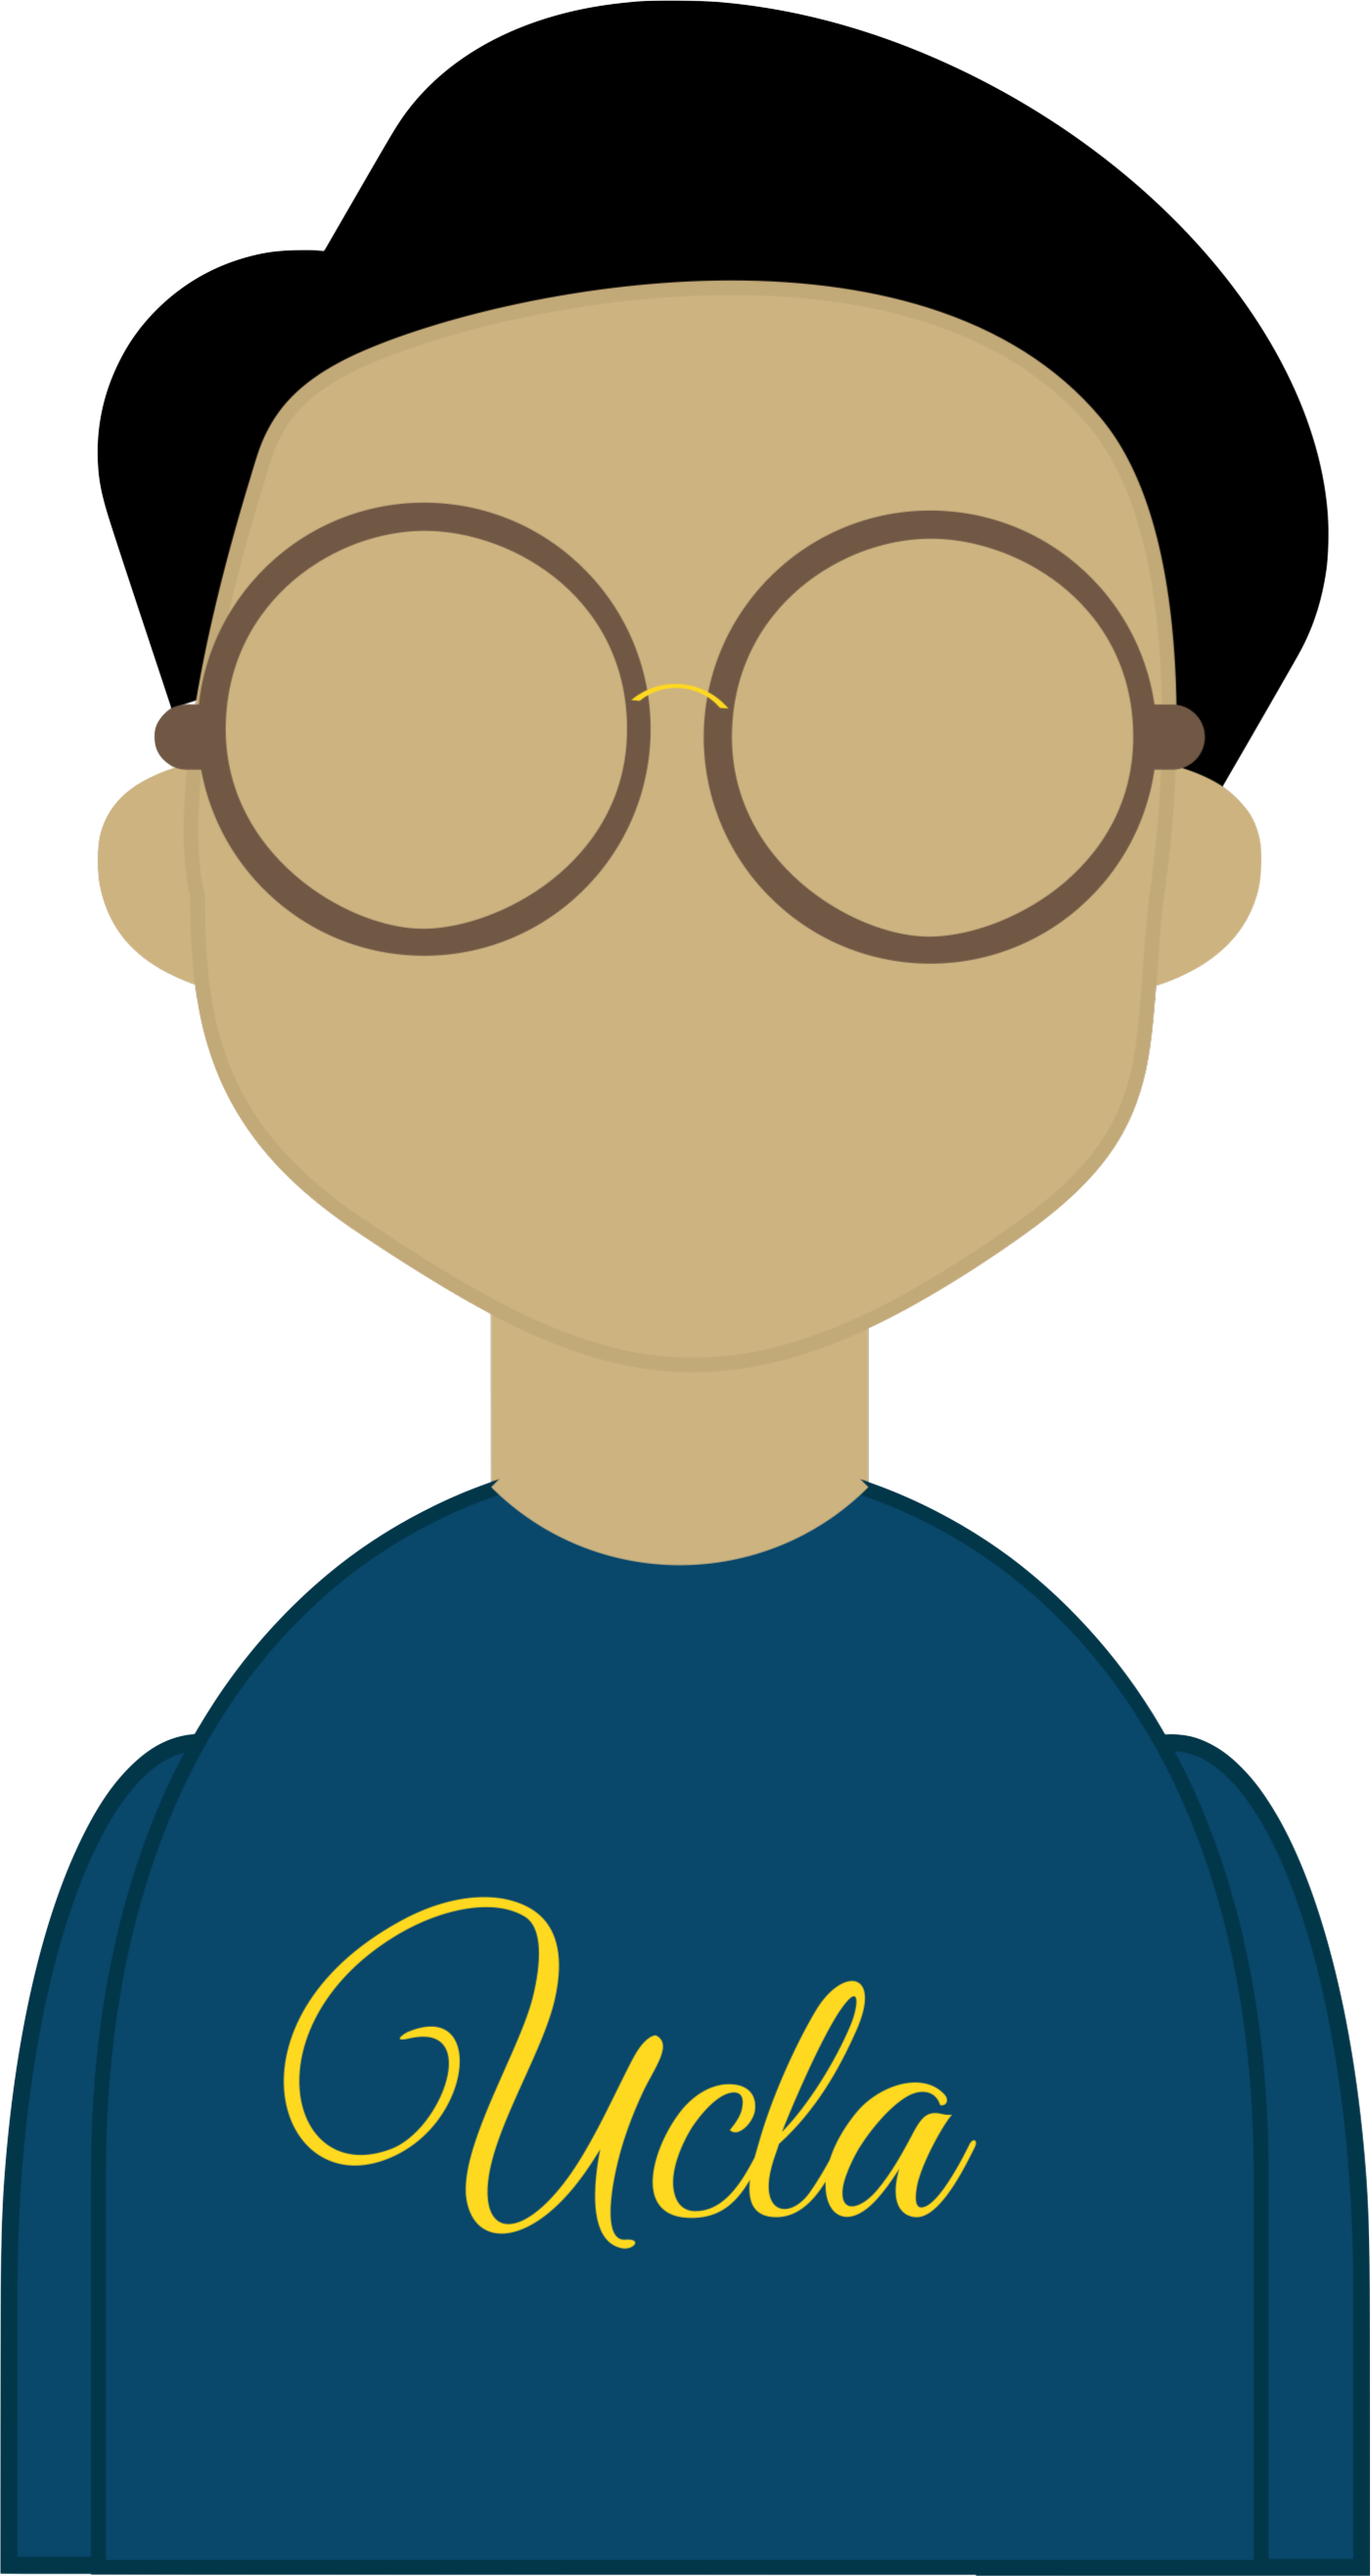
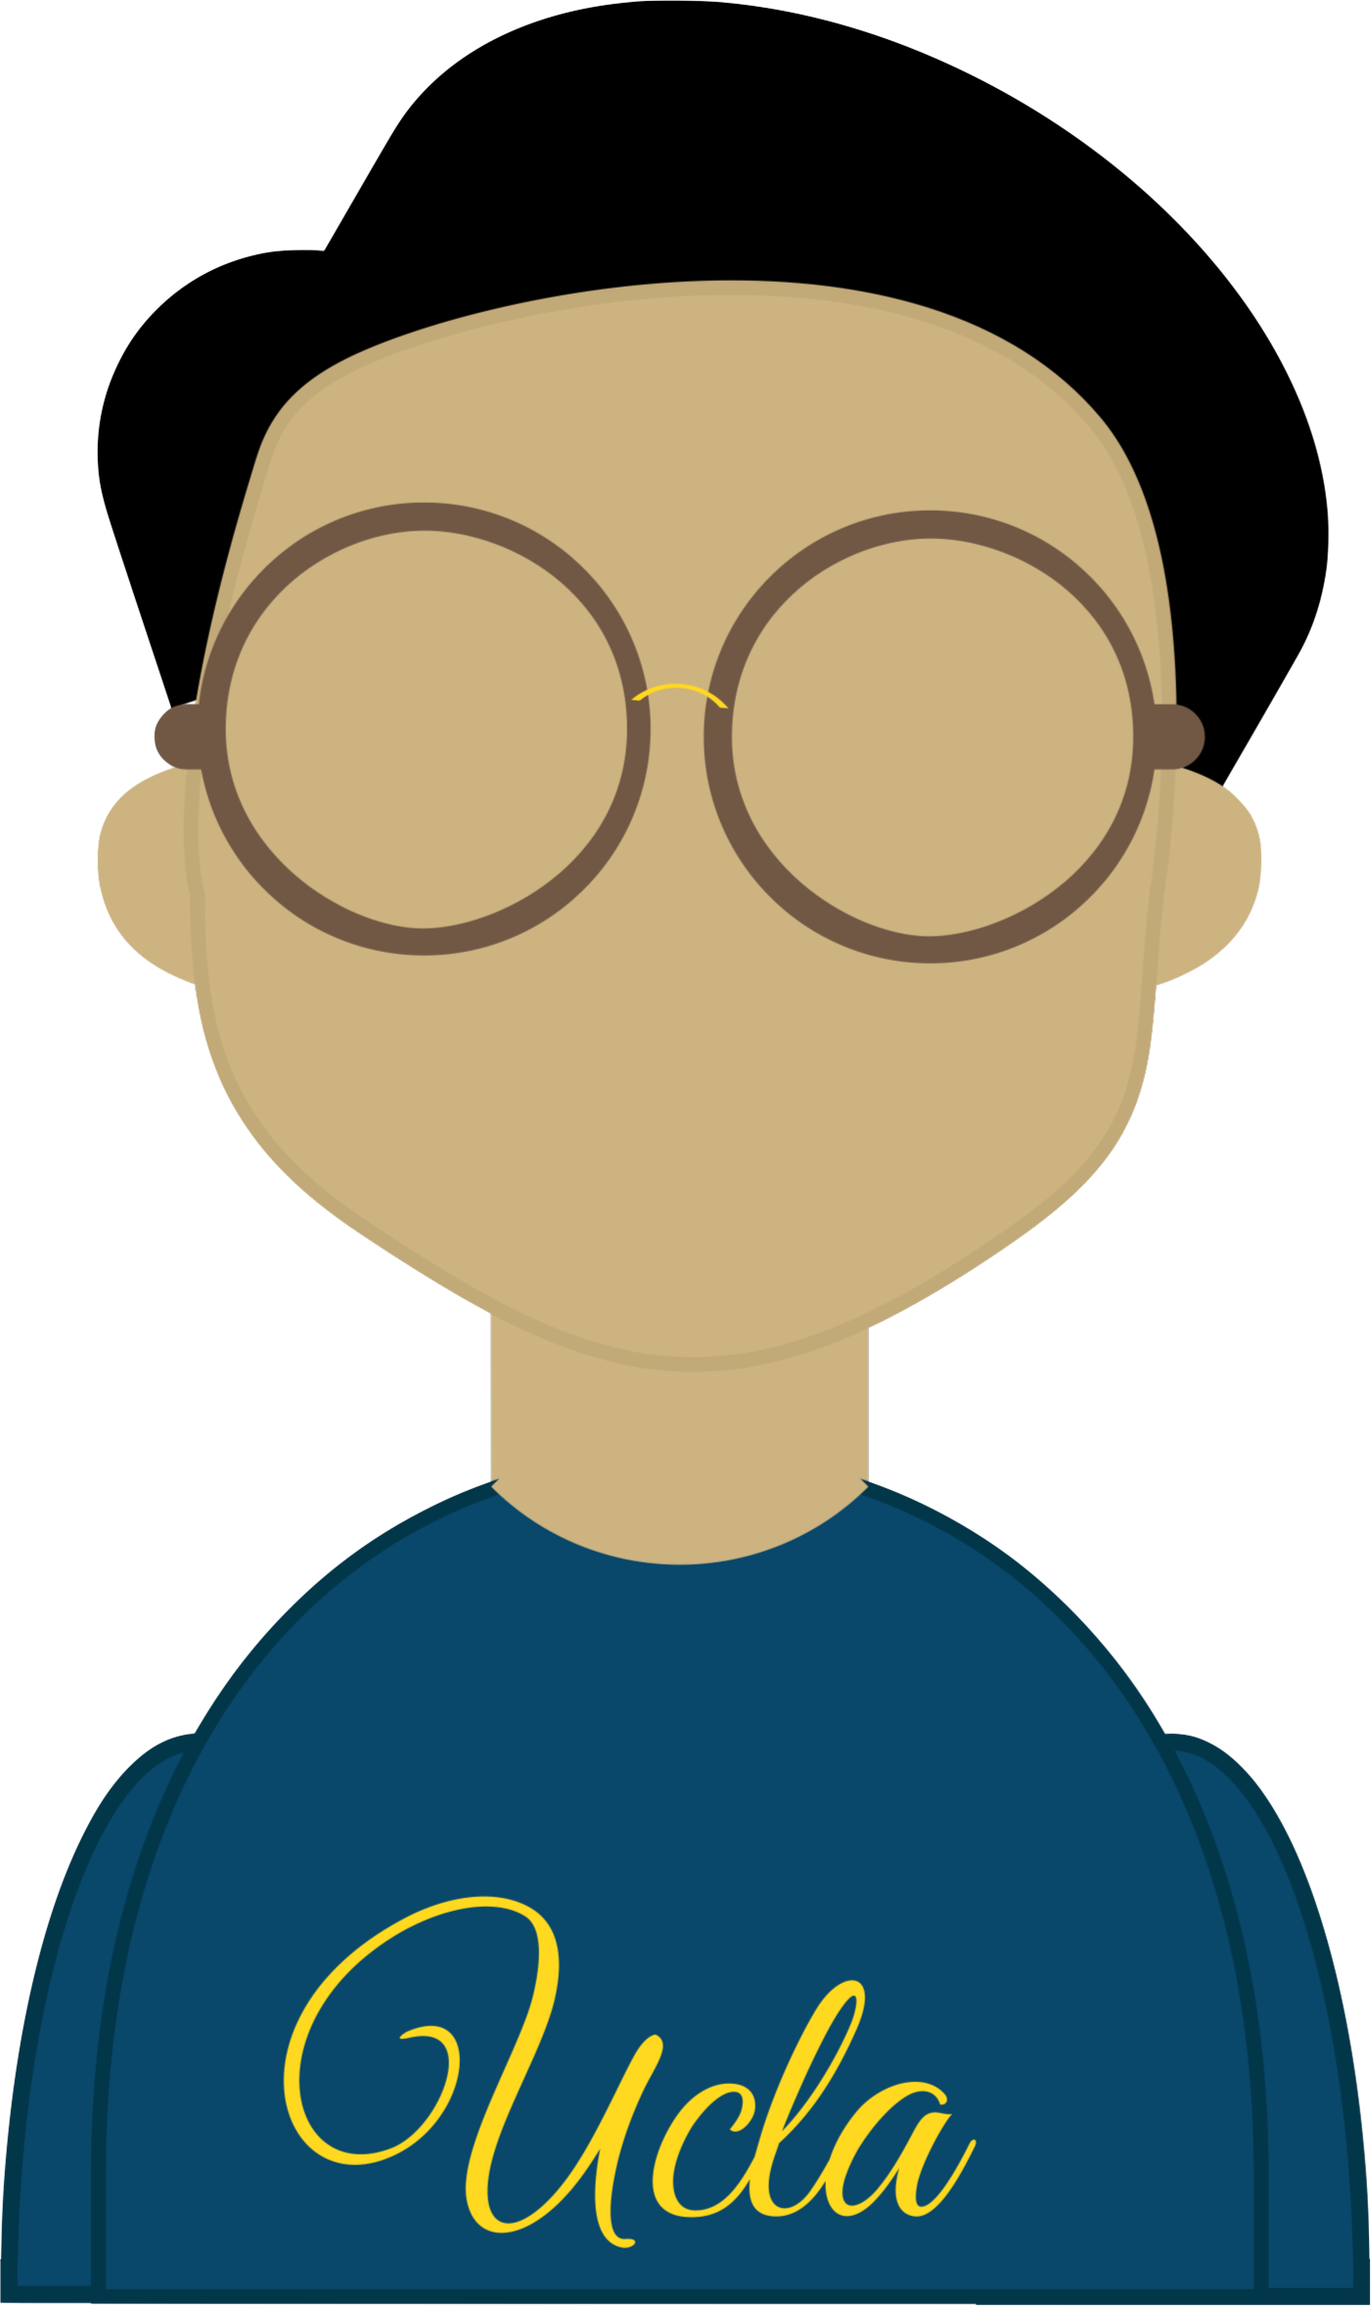
Added blog section to page and slightly tweaked layout

diff --git a/index.html b/index.html
@@ -2,10 +2,10 @@
 <html>
 <!-- Add CSS stylesheet and tab title -->
 <head>
-	<title> About Me </title>
-	<link type = "text/css" rel = "stylesheet" href = "./base.css">
-	
-	
+    <title> About Me </title>
+    <link type = "text/css" rel = "stylesheet" href = "./base.css">
+    
+    
 </head>
 
 <!-- Main body -->
@@ -15,79 +15,95 @@
 <meta content="width=device-width, initial-scale=1" name="viewport" />
 <!-- CSS Grid Wrapper -->
 <div id = "wrapper">
-	<div id = "description">
-	<!-- My name -->
-	<div id = "title">
-		<h1>Brendan Alger</h1>
-	</div>
-	<!-- Graphic art -->
-	<div id = "self">
-		<img src = "./self.png">
-	</div>
-	<!-- About me description -->
-	<div id = "about_section">	
-		<h1 id = "name"> About Me </h1>
-		<div id = "description">
-			<p>
-			My name is Brendan and I am a programmer.
-			</p>
-			<p>
-			I graduated from the University of California, Los Angeles (UCLA) with a 
-			Bachelors in Linguistics and Computer Science due to my interest in both languages
-			and technology. I love learning, which is why I constantly make an effort to find and embrace 
-			new challenges and responsibilities (such as building this website). I pay great attention to 
-			detail, as exemplified in my work in which I implement innovation and 
-			effectiveness at the highest standard of technical excellence that I can.
-			</p>
-			<p>
-			I bring this work ethic with me to every scenario that I encounter. Outside of programming,
-			I am an avid maker and love crafting and doing things with my own hands. I have a variety of 
-			interests from origami to classic car restoration.
-			</p>
-		</div>
-	</div>
-	</div>
+    <!-- My name -->
+        <div id = "title">
+            <h1>Brendan Alger</h1>
+        </div>
+    <div id = "description">
+        
+        <!-- Graphic art -->
+        <div id = "self">
+            <img src = "./self.png">
+        </div>
+        <!-- About me description -->
+        <div id = "about_section">  
+            <h1 id = "name"> About Me </h1>
+            <div id = "description">
+                <p>
+                My name is Brendan and I am a programmer.
+                </p>
+                <p>
+                I graduated from the University of California, Los Angeles (UCLA) with a 
+                Bachelors in Linguistics and Computer Science due to my interest in both languages
+                and technology. I love learning, which is why I constantly make an effort to find and embrace 
+                new challenges and responsibilities (such as building this website). I pay great attention to 
+                detail, as exemplified in my work in which I implement innovation and 
+                effectiveness at the highest standard of technical excellence that I can.
+                </p>
+                <p>
+                I bring this work ethic with me to every scenario that I encounter. Outside of programming,
+                I am an avid maker and love crafting and doing things with my own hands. I have a variety of 
+                interests from origami to classic car restoration.
+                </p>
+                <p>
+                Below are some links to access information about me and some of my side projects/hobbies.
+                </p>
+            </div>
+        </div>
+    </div>
 
-	<div id = "nav_links">
-		<button class="collapsible"><img src = "./document.png"><h1>Resume</h1></button>
-		<div class="content">
-		  	<p>A current copy of my resume.</p>
-		 	<br>
-		 	<a href = "./General.pdf"><h2>Open resume here</h2></a>
-		</div>
-		<button class="collapsible"><img src = "./Github.png"><h1>Github</h1></button>
-		<div class="content">
-		    <p>Link to my Github profile containing some of the projects I have previously worked on.</p>
-		    <br>
-		    <a href = "https://github.com/Bren-A/"><h2>Open github here</h2></a>
-		</div>
+    <div id = "nav_links">
+        <button class="collapsible"><img src = "./document.png"><h1>Resume</h1></button>
+        <div class="content">
+            <p>A current copy of my resume.</p>
+            <br>
+            <a href = "./General.pdf"><h2>Open resume here</h2></a>
+            <br>
+        </div>
+        <button class="collapsible"><img src = "./Github.png"><h1>Github</h1></button>
+        <div class="content">
+            <p>Link to my Github profile containing some of the projects I have previously worked on.</p>
+            <br>
+            <a href = "https://github.com/Bren-A/"><h2>Open github here</h2></a>
+            <br>
+        </div>
+        <button class="collapsible"><img src = "./typewriter.png"><h1>Blogs</h1></button>
+        <div class="content">
+            <p>
+                A variety of writeups I've done ranging from my personal coding projects
+                to craft projects and notes.
+            </p>
+            <br>
+            <a href = "https://github.com/Bren-A/"><h2>Open github here</h2></a>
+            <br>
+        </div>
 
-		<!-- Simple javascript function reveals div on click -->
-		<script>
-		// Save var as list of elements with class "collapsible"
-		var coll = document.getElementsByClassName("collapsible");
-		// Iterate through all elements with collapsible term
-		for (var i = 0; i < coll.length; i++) {
-			// Add property to each div that will make it keep track of click on div
-		  coll[i].addEventListener("click", function() {
-		    this.classList.toggle("active");
-		    // On next element
-		    var content = this.nextElementSibling;
-		    // If already max height, remove max height
-		    if (content.style.maxHeight)
-		      content.style.maxHeight = null;
-		  	// Otherwise set maxHeight to height of box.
-		    else
-		      content.style.maxHeight = content.scrollHeight + "px";
-		  });
-		}
-		</script>
+        <!-- Simple javascript function reveals div on click -->
+        <script>
+        // Save var as list of elements with class "collapsible"
+        var collapsibles = document.getElementsByClassName("collapsible");
+        // Iterate through all elements with collapsible term
+        for (var i = 0; i < collapsibles.length; i++) {
+            // Add property to each div that will make it keep track of click on div
+          collapsibles[i].addEventListener("click", function() {
+            this.classList.toggle("active");
+            // On next element
+            var content = this.nextElementSibling;
+            // If already max height, remove max height
+            if (content.style.maxHeight)
+                content.style.maxHeight = null;
+            // Otherwise set maxHeight to height of box.
+            else
+                content.style.maxHeight = content.scrollHeight + "px";
+          });
+        }
+        </script>
 
-	</div>
-	<!-- Keep this info at the bottom of the page -->
-	<div id = "bottom", style = "font-size: 2em; color: #6084B4;">
-		<b>Endpage</b>
-	</div>
+    </div>
+    <!-- Keep this info at the bottom of the page -->
+    <div id = "bottom", style = "font-size: 2em; color: #6084B4;">
+        <b>Endpage</b>
+    </div>
 <!-- End CSS Grid -->
 </div>
 

diff --git a/base.css b/base.css
@@ -6,6 +6,7 @@
 
 html, body
 {
+	/* Expand dimensions to whole screen */
 	min-height:100%;
 	min-width: 100%;
 	/* Must change html background color and not body */
@@ -24,7 +25,7 @@ body
     color: #F0F0F0; 
     font-family: Minimal;
     /* Keep all items slightly away from edges */
-    padding: 1.5%;
+    padding: 1%;
 }
 
 /* Modify size of h1 text */
@@ -74,27 +75,22 @@ a:hover h2
 	/* Distibution of columns */
 	/* Use mobile default */
 	grid-template-columns: 1fr;
-	}
-
-/* For mobile/tablet configurations change to a single column instead of two */
-@media screen and (min-width: 37em) {  
-    #wrapper 
-    { 
-        grid-template-columns: 1fr 2fr;
-    }
-
-    #nav_links
-	{
-		margin-top: 30%
-	}
 }
-/* ABOUT ME SECTION */
+
+
+#title
+{
+	grid-column: 1 / -1;
+}
+
 #title h1
 {
 	font-size: 350%;
 	text-align: center;
-	margin-bottom: 5%;
+	margin-bottom: 2%;
 }
+/* ABOUT ME SECTION */
+
 /* Graphic art of me properties*/
 
 #self > img
@@ -103,9 +99,9 @@ a:hover h2
     object-fit: cover;
     /* Make it 86% of element area */
     /* Height will automatically scale */
-  	width: 86%;
+  	width: 60%;
   	/* Add margins to photo */
-    margin: 0% 7%;
+    margin: 0% 20%;
 }
 
 /* Modify about box description */
@@ -146,8 +142,6 @@ a:hover h2
   text-align: left;
   /* Set max button height */
   height: 6em;
-  /* Soften corners by rounding them slightly */
-  border-radius: 3%;
 }
 
 .collapsible img
@@ -181,4 +175,33 @@ a:hover h2
     transition: max-height 0.2s ease-out;
     background-color: #262626;
     margin-bottom: 1%;
+}
+
+#bottom
+{
+	text-align: center;
+	padding: 1%;
+}
+/* For desktop configurations set columns to two */
+@media screen and (min-width: 37em) {  
+    #wrapper 
+    { 
+        grid-template-columns: 2fr 4fr;
+    }
+
+    #nav_links
+	{
+		margin-top: 20%;
+	}
+	#bottom
+	{
+		grid-column: 1 / -1;
+		border-top: 2px solid #303030;
+	}
+	#title h1
+	{
+		margin-bottom: 0%;
+		border-bottom: 2px solid #303030;
+		padding-bottom: .5%;
+	}
 }
